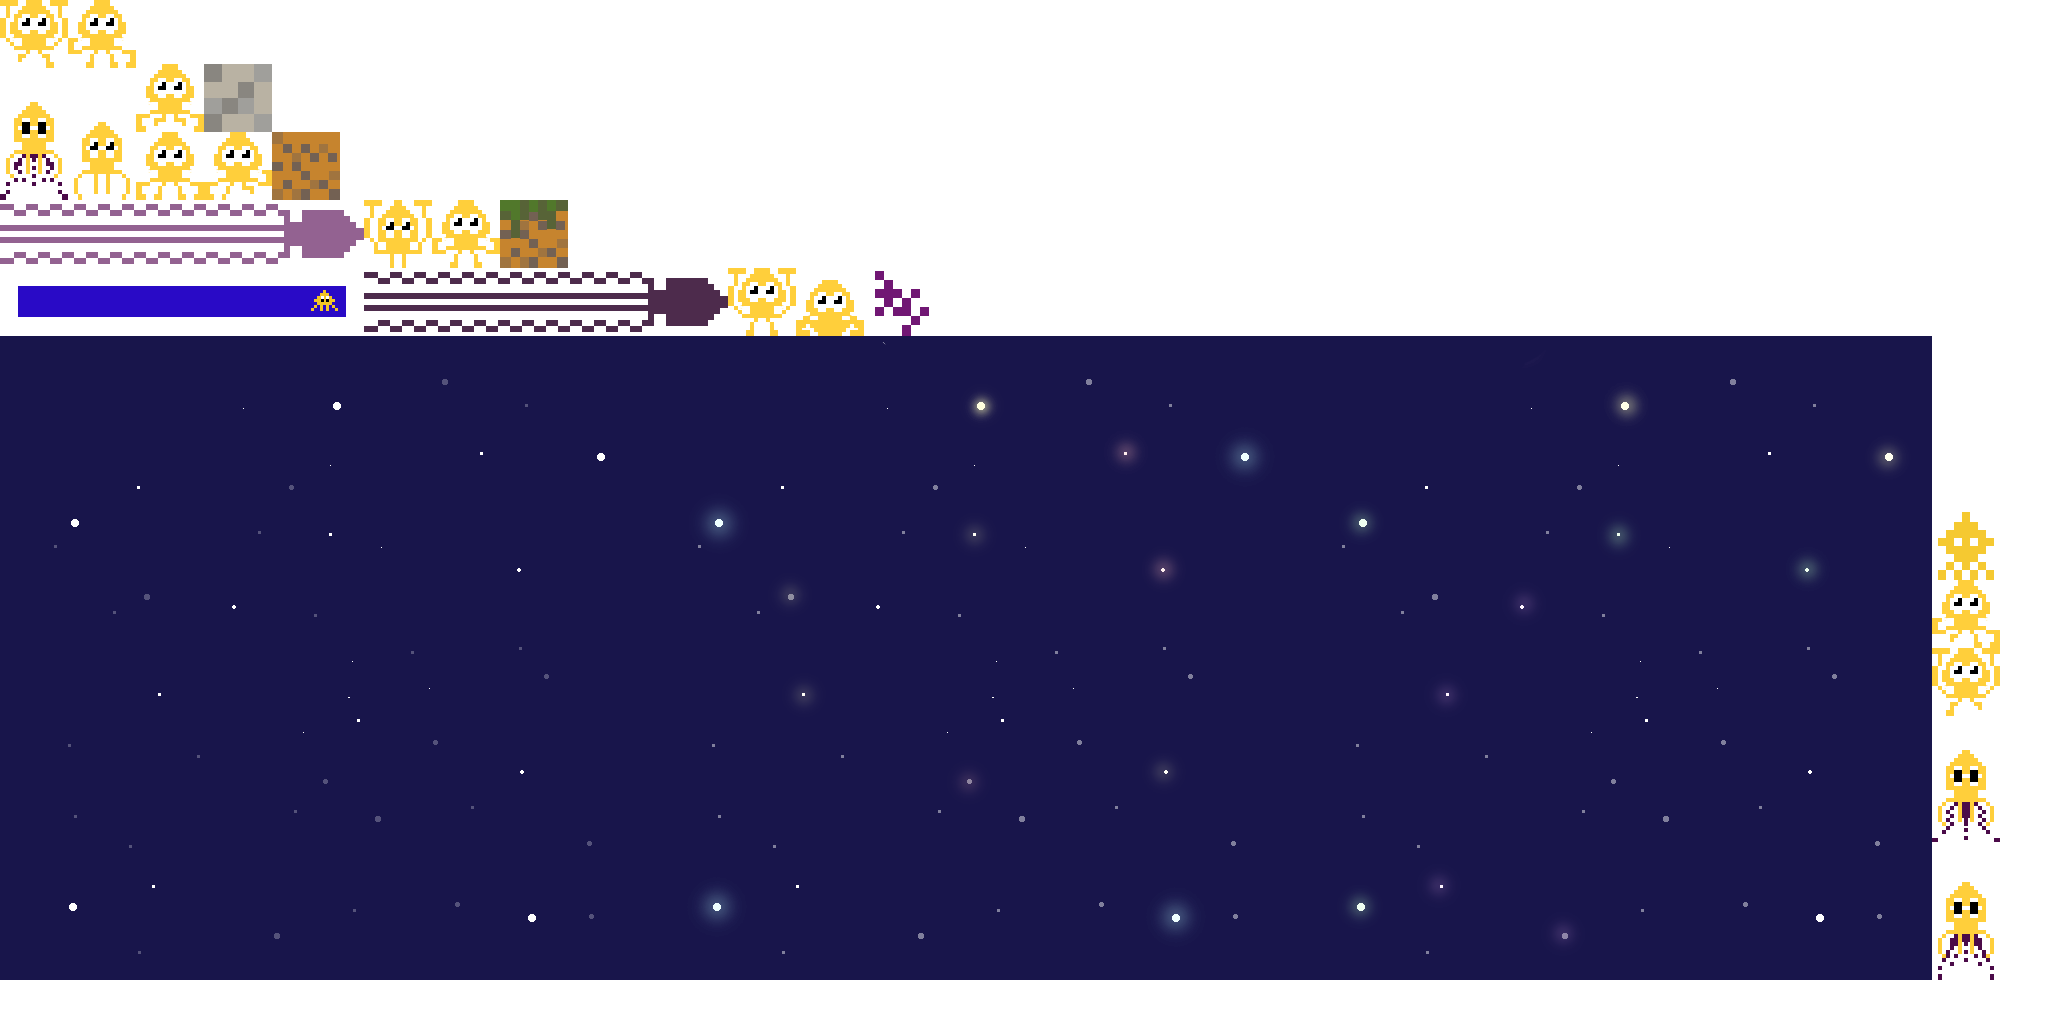
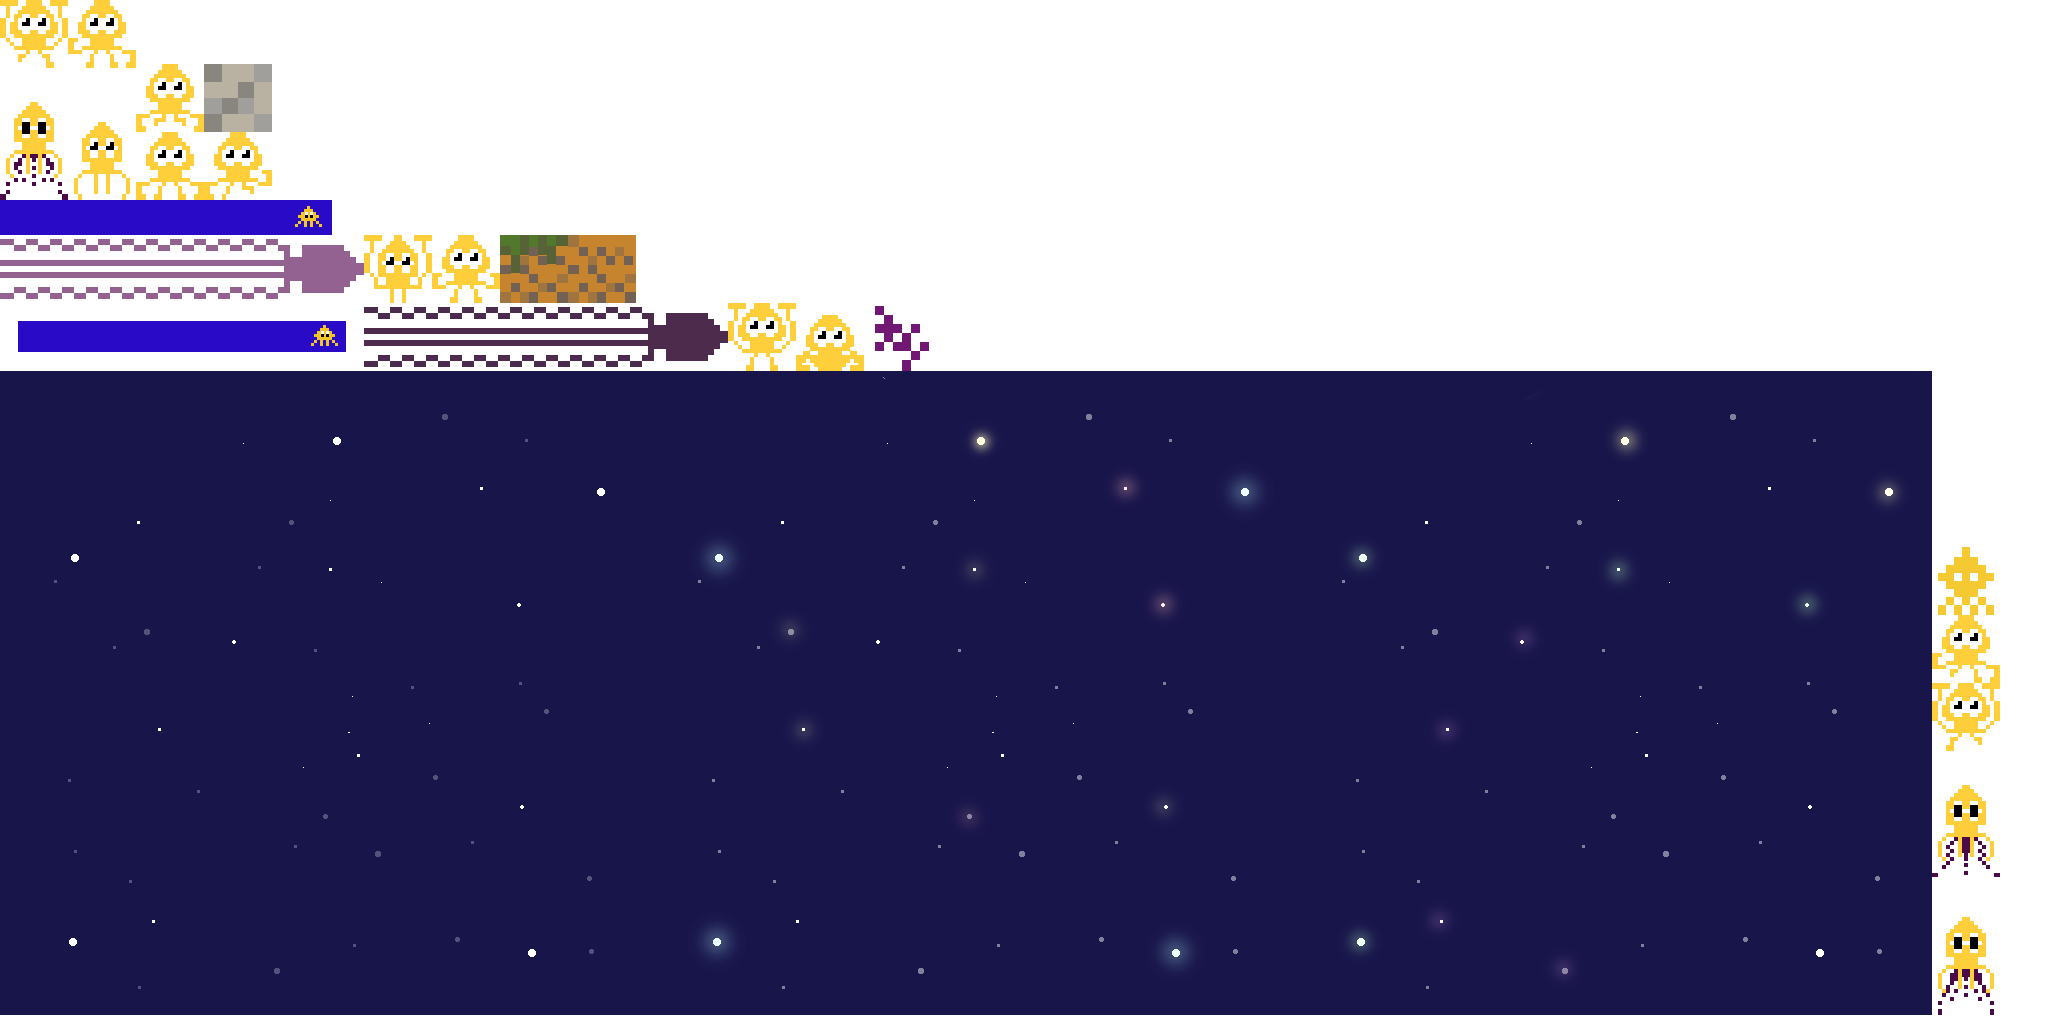
ink indicator

diff --git a/core/src/com/ggj15/screen/GameScreen.java b/core/src/com/ggj15/screen/GameScreen.java
@@ -25,6 +25,8 @@ public class GameScreen extends BaseScreen {
     private Hole hole;
     private PlanetController planetController;
     private Background background;
+    private InkIndicator inkIndicator;
+    private HoleIndicator holeIndicator;
 
     private Array<Planet> planets = new Array<Planet>();
 
@@ -53,7 +55,9 @@ public class GameScreen extends BaseScreen {
         player = new Player();
 
         for (int i = 1, max = 5+random.nextInt(7); i < max; i++) {
-            Planet planet = new Planet.Builder().width(6+random.nextInt(6)).height(6 + random.nextInt(6)).orbitRadius(600 + random.nextInt(15) * 150).speed((random.nextInt(5)+1)*150).build();
+            Planet planet = new Planet.Builder().width(6+random.nextInt(6))
+                    .height(6 + random.nextInt(6)).orbitRadius(600 + random.nextInt(15) * 150)
+                    .speed((random.nextInt(5)+1)*150).build();
             planets.add(planet);
             mapStage.addActor(planet.getActor());
         }
@@ -70,13 +74,13 @@ public class GameScreen extends BaseScreen {
         stage().addActor(table);
         table.right().bottom().padBottom(10).padRight(15);
 
-        HoleIndicator holeIndicator = new HoleIndicator();
+        holeIndicator = new HoleIndicator();
         table.add(holeIndicator);
 
         table.add().expandX();
 
-        InkIndicator inkIndicator = new InkIndicator();
-        table.add(inkIndicator);
+        inkIndicator = new InkIndicator();
+        table.add(inkIndicator).padRight(15);
 
         Gdx.input.setInputProcessor(new Processor());
 
@@ -95,9 +99,10 @@ public class GameScreen extends BaseScreen {
         super.render(delta);
 
         player.process(delta, planets);
-        for(Planet planet: planets){
-            planet.process(delta);
-        }
+//        for(Planet planet: planets){
+//            planet.process(delta);
+//        }
+        inkIndicator.setInkLevel(player.getInkLevel());
 
         Gdx.gl.glClearColor(1, 0, 1, 1);
         Gdx.gl.glClear(GL20.GL_COLOR_BUFFER_BIT);
@@ -108,6 +113,13 @@ public class GameScreen extends BaseScreen {
         shapes().setProjectionMatrix(getCamera().combined);
 
         hole.process(delta);
+
+        float diff = (float) Math.sqrt(Math.pow(player.getX() - hole.getCenter().x, 2) +
+                Math.pow(player.getY() - hole.getCenter().y, 2));
+        diff -= hole.getWidth() / 2;
+        Gdx.app.log("dist", "d " + diff);
+        holeIndicator.updateHoleDistance(diff);
+
 
         batch().begin();
         background.setPosition(player.getX() - getWorldWidth() / 2, player.getY() - getWorldHeight() / 2);

diff --git a/core/src/com/ggj15/model/Player.java b/core/src/com/ggj15/model/Player.java
@@ -11,13 +11,12 @@ import com.badlogic.gdx.utils.Array;
 import com.ggj15.data.Configuration;
 import com.ggj15.data.ImageCache;
 
-import javax.xml.soap.Text;
-import java.awt.*;
-
 /**
  * Created by kettricken on 24.01.2015.
  */
 public class Player extends Sprite {
+
+    private static final int MAX_INK_LEVEL = 100;
 
     enum State {
         WALK("char-walking", 4, 0.1f),
@@ -66,12 +65,15 @@ public class Player extends Sprite {
     private State state;
     private float stateTime;
 
+    private float inkLevel = 0;
+
     public Player() {
         setState(State.STAND);
-        setX(50);
-        setY(500);
-
         actor = new PlayerActor();
+    }
+
+    public float getInkLevel() {
+        return inkLevel;
     }
 
     public void process(float delta, Array<Planet> planets) {
@@ -89,6 +91,8 @@ public class Player extends Sprite {
             }
         }
 
+        float dx = 0;
+        float dy = 0;
         if (planet != null) {
             gravity = planet.getNewGravity(gravity, getCenterX(), getCenterY());
             processInput(planet);
@@ -110,10 +114,12 @@ public class Player extends Sprite {
                     vx += force;
                     break;
             }
+//            dx = planet.getDx();
+//            dy = planet.getDy();
         }
 
-        float dx = vx * delta;
-        float dy = vy * delta;
+        dx += vx * delta;
+        dy += vy * delta;
         for (Planet cur: planets) {
             float[] ds = cur.collide(getX(), getY(),
                     getRegionWidth(), getRegionHeight(), dx, dy);
@@ -240,7 +246,11 @@ public class Player extends Sprite {
     private void processInput(Planet planet) {
         if (Gdx.input.isKeyJustPressed(Input.Keys.S)) {
             if (block == null) {
-                block = planet.takeBlock(gravity, getCenterX(), getCenterY());
+                if (planet.hasInk(gravity, getCenterX(), getCenterY())){
+                    inkLevel = Math.min(inkLevel + planet.getInkAmount(gravity, getCenterX(), getCenterY()), MAX_INK_LEVEL);
+                } else {
+                    block = planet.takeBlock(gravity, getCenterX(), getCenterY());
+                }
             } else {
                 Gdx.app.log("test", "trying to put block");
                 boolean success = planet.putBlock(block, getCenterX(), getCenterY());

diff --git a/core/src/com/ggj15/model/Planet.java b/core/src/com/ggj15/model/Planet.java
@@ -13,12 +13,13 @@ import com.ggj15.data.ImageCache;
 import com.ggj15.screen.GameScreen;
 
 import java.util.Arrays;
-import java.util.Random;
 
 /**
  * Created by st on 1/24/15.
  */
 public class Planet {
+
+    public static final int INK_AMOUNT = 10;
 
     private enum OrbitDirection{
         DOWN(0,-1), RIGHT(1,0), UP(0,1), LEFT(-1,0);
@@ -42,6 +43,8 @@ public class Planet {
     private static final String TEXTURE_INK = "ink";
 
     public PlanetActor actor;
+
+    private float dx, dy;
 
     public PlanetActor getActor() {
         return actor;
@@ -95,6 +98,14 @@ public class Planet {
         return y;
     }
 
+    public float getDx(){
+        return dx;
+    }
+
+    public float getDy() {
+        return dy;
+    }
+
     public void setPosition(float x, float y) {
 //        this.x = x-getWidth()/2;
 //        this.y = y-getHeight()/2;
@@ -104,8 +115,12 @@ public class Planet {
     }
 
     public void setCenterPosition(float x, float y) {
-        this.x = (x-getWidth()/2)*1;
-        this.y = (y-getHeight()/2)*1;
+        x -= getWidth() / 2;
+        y -= getHeight() / 2;
+        dx = x - this.x;
+        dy = y - this.y;
+        this.x = x;
+        this.y = y;
     }
 
     float getCenterX(){
@@ -223,6 +238,25 @@ public class Planet {
         }
 
         setCenterPosition(x + speed * delta * orbitDirection.multiplierX, y + speed * delta * orbitDirection.multiplierY);
+    }
+
+    public float getInkAmount(Direction gravity, int x, int y) {
+        int idx = getHorizontalIndex(x) + Direction.getDx(gravity);
+        int idy = getVerticalIndex(y) + Direction.getDy(gravity);
+        if(idy > inked.length || idy < 0 || idx <0 || idx > inked[0].length){
+            return INK_AMOUNT;
+        }
+        inked[idy][idx] = false;
+        return INK_AMOUNT;
+    }
+
+    public boolean hasInk(Direction gravity, int x, int y) {
+        int idx = getHorizontalIndex(x) + Direction.getDx(gravity);
+        int idy = getVerticalIndex(y) + Direction.getDy(gravity);
+        if(idy > inked.length || idy < 0 || idx <0 || idx > inked[0].length){
+            return false;
+        }
+        return inked[idy][idx];
     }
 
     public Block takeBlock(Direction gravity, int x, int y) {

diff --git a/core/src/com/ggj15/model/HoleIndicator.java b/core/src/com/ggj15/model/HoleIndicator.java
@@ -2,7 +2,9 @@ package com.ggj15.model;
 
 import com.badlogic.gdx.graphics.g2d.Batch;
 import com.badlogic.gdx.graphics.g2d.Sprite;
+import com.badlogic.gdx.graphics.glutils.ShapeRenderer;
 import com.badlogic.gdx.scenes.scene2d.Actor;
+import com.ggj15.data.Configuration;
 import com.ggj15.data.ImageCache;
 
 /**
@@ -11,9 +13,12 @@ import com.ggj15.data.ImageCache;
 public class HoleIndicator extends Actor {
 
     private Sprite sprite;
+    private ShapeRenderer shapeRenderer;
+    private float distance = 0;
 
     public HoleIndicator() {
-        sprite = new Sprite(ImageCache.getTexture("black-hole-index"));
+        shapeRenderer = new ShapeRenderer();
+        sprite = new Sprite(ImageCache.getTexture("hole-indicator"));
         this.setWidth(sprite.getWidth());
         this.setHeight(sprite.getHeight());
         this.setBounds(0, 0, this.getWidth(), this.getHeight());
@@ -32,5 +37,19 @@ public class HoleIndicator extends Actor {
     public void draw(Batch batch, float parentAlpha) {
         super.draw(batch, parentAlpha);
         sprite.draw(batch);
+        batch.end();
+        shapeRenderer.setProjectionMatrix(getStage().getCamera().combined);
+        shapeRenderer.begin(ShapeRenderer.ShapeType.Filled);
+        shapeRenderer.setColor(0, 0, 0, 1);
+        float width = sprite.getWidth() - distance;
+        shapeRenderer.rect(sprite.getX(), sprite.getY(), width, sprite.getHeight());
+        shapeRenderer.end();
+        batch.begin();
+    }
+
+
+    public void updateHoleDistance(float diff) {
+        float percent = diff / Math.abs(Configuration.worldMinWidth) + Configuration.worldMaxWidth;
+        this.distance = sprite.getWidth() * percent;
     }
 }

diff --git a/core/src/com/ggj15/model/InkIndicator.java b/core/src/com/ggj15/model/InkIndicator.java
@@ -16,7 +16,7 @@ public class InkIndicator extends Actor {
     private Sprite bottomSprite;
     private Sprite topSprite;
 
-    private float inkLevel = 100;
+    private float inkLevel = 0;
 
     ShapeRenderer renderer = new ShapeRenderer();
 
@@ -28,7 +28,6 @@ public class InkIndicator extends Actor {
         this.setHeight(bottomSprite.getHeight());
         this.setBounds(0, 0, this.getWidth(), this.getHeight());
 
-        inkLevel = this.getWidth() / 2;
     }
 
     @Override
@@ -58,6 +57,7 @@ public class InkIndicator extends Actor {
         Gdx.gl.glDepthMask(true);
         Gdx.gl.glColorMask(false, false, false, true);
 
+        renderer.setProjectionMatrix(getStage().getCamera().combined);
         renderer.begin(ShapeRenderer.ShapeType.Filled);
         renderer.setColor(1, 1, 1, 1);
         float width = bottomSprite.getX() + bottomSprite.getWidth() - inkLevel;
@@ -72,14 +72,14 @@ public class InkIndicator extends Actor {
         Gdx.gl.glEnable(GL20.GL_DEPTH_TEST);
         Gdx.gl.glDepthFunc(GL20.GL_EQUAL);
 
-        batch.draw(topSprite, bottomSprite.getX(), getY());
+        batch.draw(topSprite, bottomSprite.getX(), bottomSprite.getY());
         batch.flush();
 
         Gdx.gl.glDisable(GL20.GL_DEPTH_TEST);
         Gdx.gl.glDepthMask(false);
     }
 
-    public void setInkLevel() {
-        //TODO: implement
+    public void setInkLevel(float inkLevel) {
+        this.inkLevel = bottomSprite.getWidth() * (inkLevel / 100);
     }
 }

diff --git a/core/src/com/ggj15/data/Configuration.java b/core/src/com/ggj15/data/Configuration.java
@@ -4,7 +4,7 @@ package com.ggj15.data;
  * Created by st on 1/23/15.
  */
 public class Configuration {
-    public static final int MULTIPLIER = 3;
+    public static final int MULTIPLIER = 1;
     public static final int WORLD_WIDTH = 2000 * MULTIPLIER;
     public static final int WORLD_HEIGHT = 1200 * MULTIPLIER;
     public static final float SCALE_FACTOR = 0.75f / MULTIPLIER;

diff --git a/core/src/com/ggj15/model/Hole.java b/core/src/com/ggj15/model/Hole.java
@@ -118,6 +118,10 @@ public class Hole extends Sprite {
         return actor;
     }
 
+    public Vector2 getCenter() {
+        return center;
+    }
+
     private class PlanetActor extends Actor {
 
         @Override
